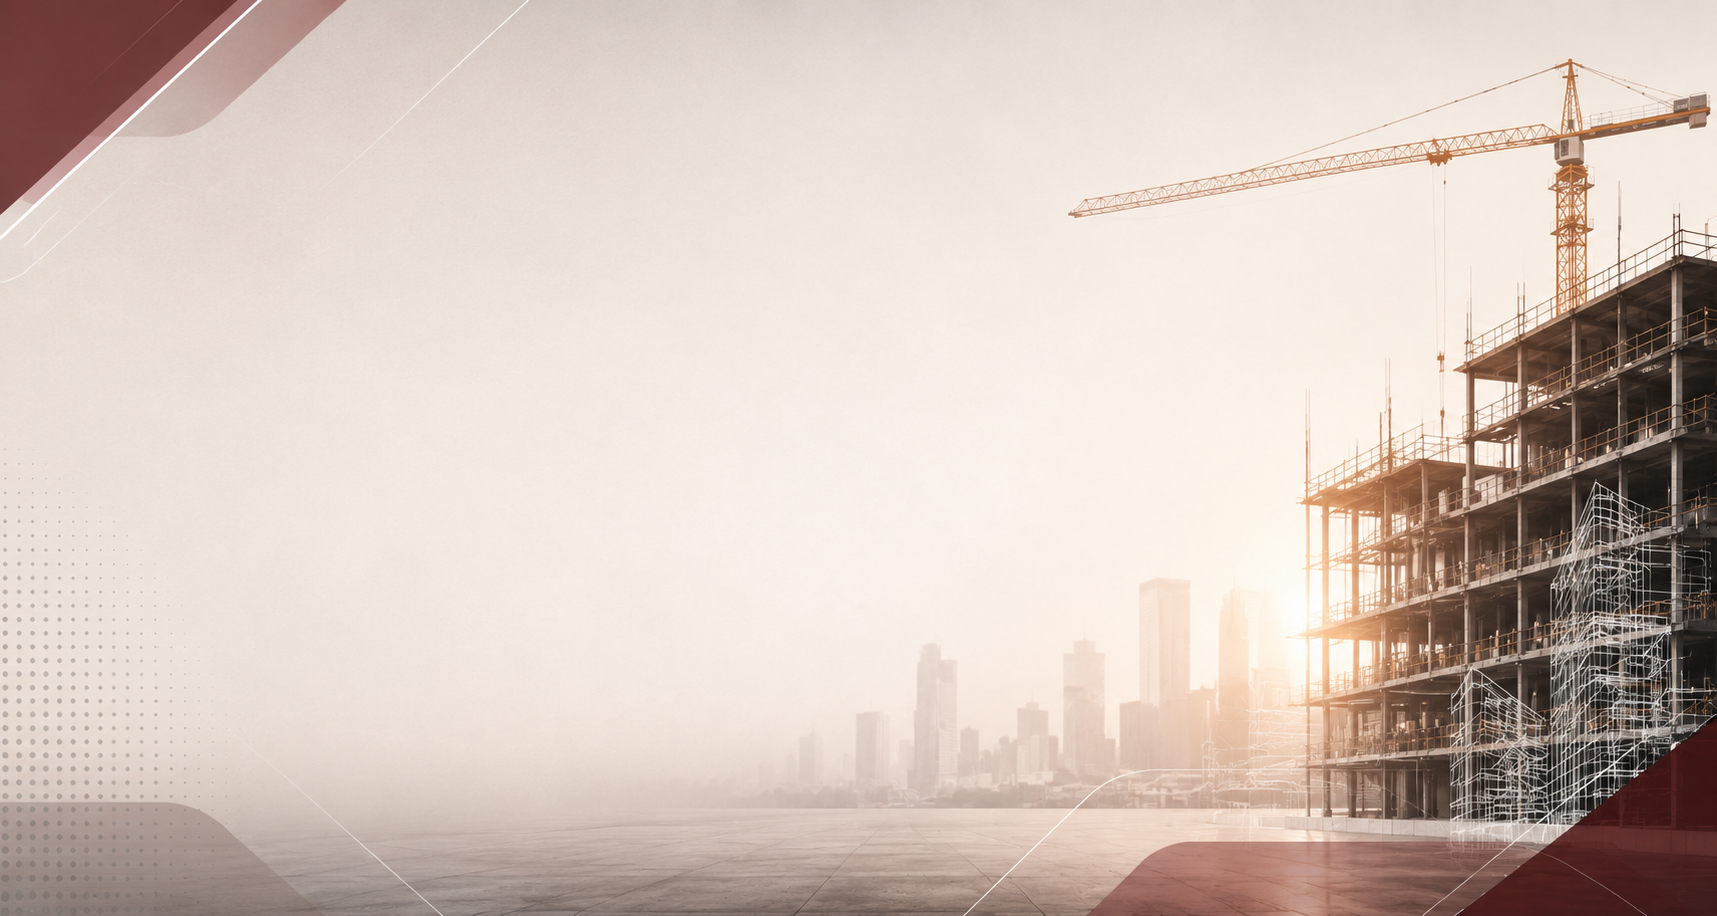
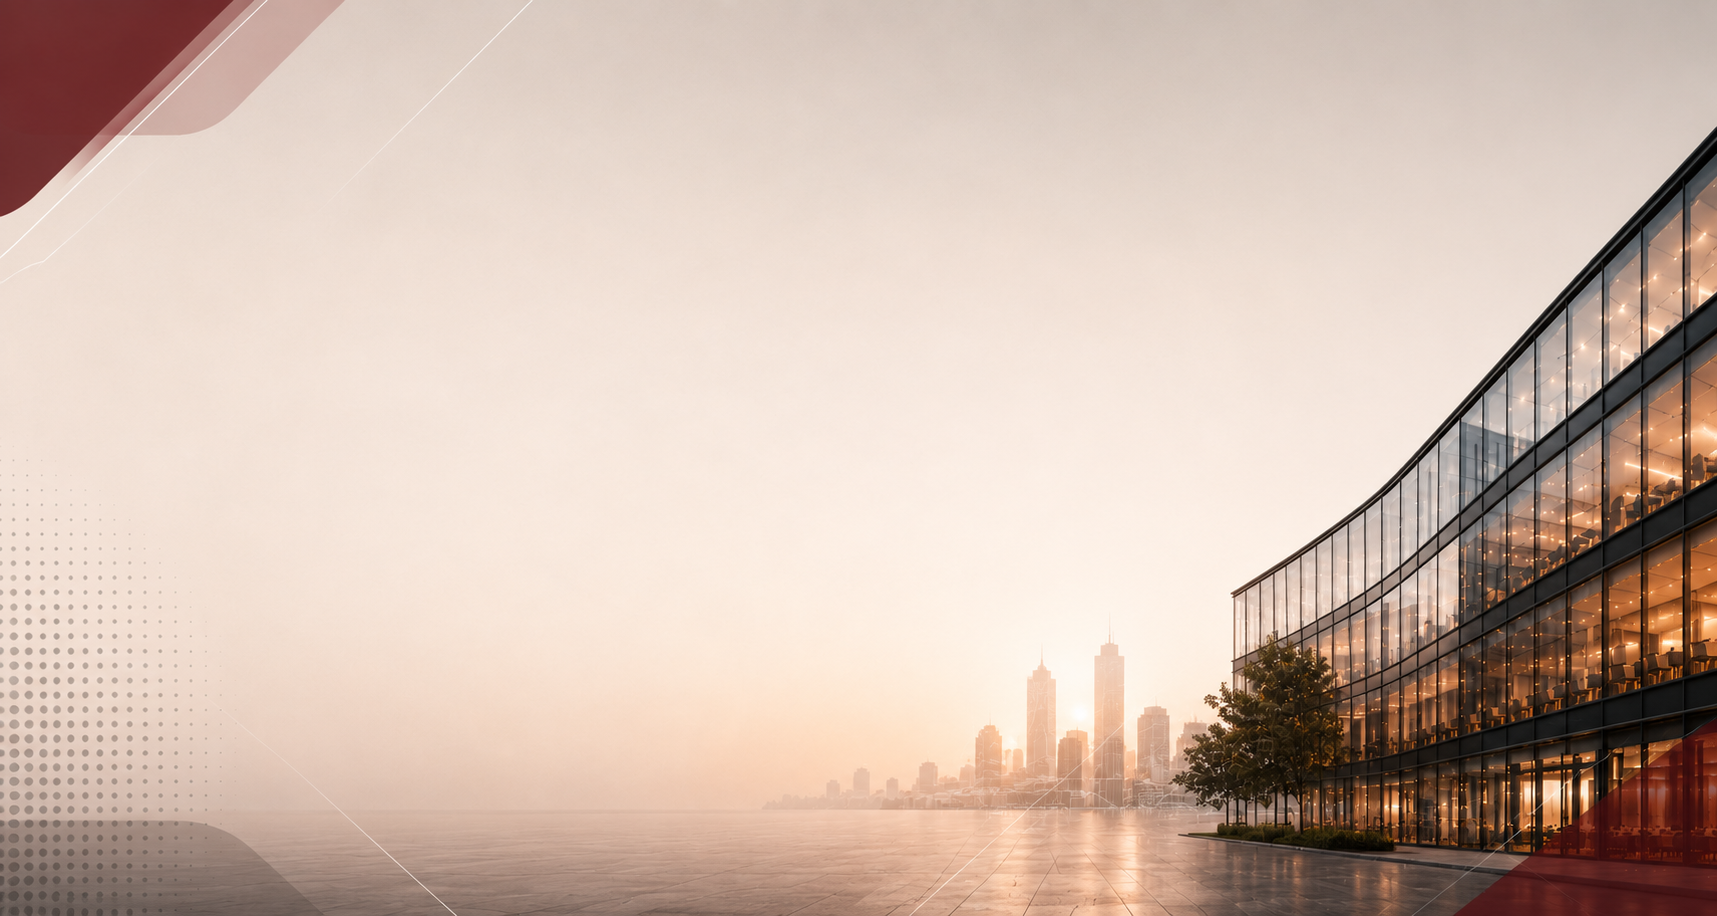
Update company email address to [email redacted] (correct spelling) in footer and Nodemailer API recipient fallback

diff --git a/api/contact.js b/api/contact.js
@@ -30,7 +30,7 @@ module.exports = async (req, res) => {
     // Check if email credentials are configured
     const user = process.env.EMAIL_USER;
     const pass = process.env.EMAIL_PASS;
-    const receiver = process.env.RECEIVER_EMAIL || user;
+    const receiver = process.env.RECEIVER_EMAIL || '[email redacted]';
 
     if (!user || !pass) {
         console.warn('⚠️ [Warning] Nodemailer credentials are not fully configured in your Vercel environment.');

diff --git a/index.html b/index.html
@@ -913,7 +913,7 @@
                             <i data-lucide="mail"></i>
                             <div>
                                 <h5>Email Us</h5>
-                                 <p><a href="mailto:[email redacted]">[email redacted]</a></p>
+                                 <p><a href="mailto:[email redacted]">[email redacted]</a></p>
                             </div>
                         </div>
                         <div class="info-item">